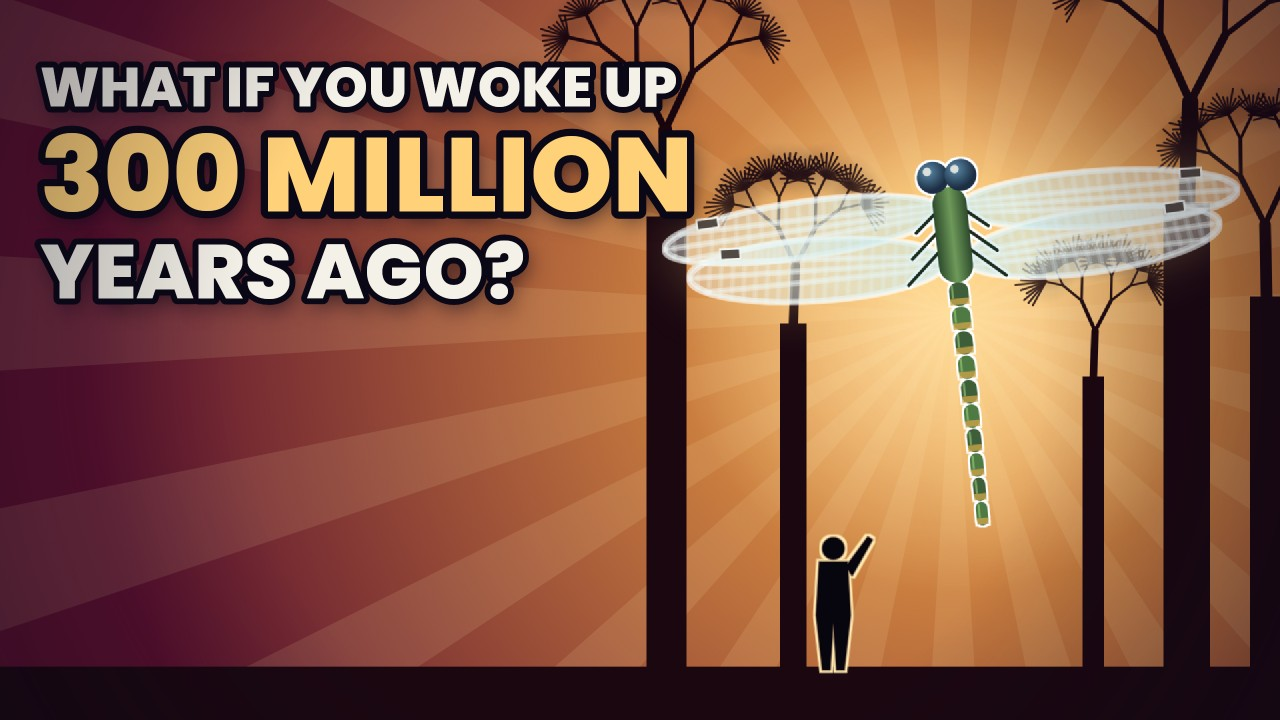
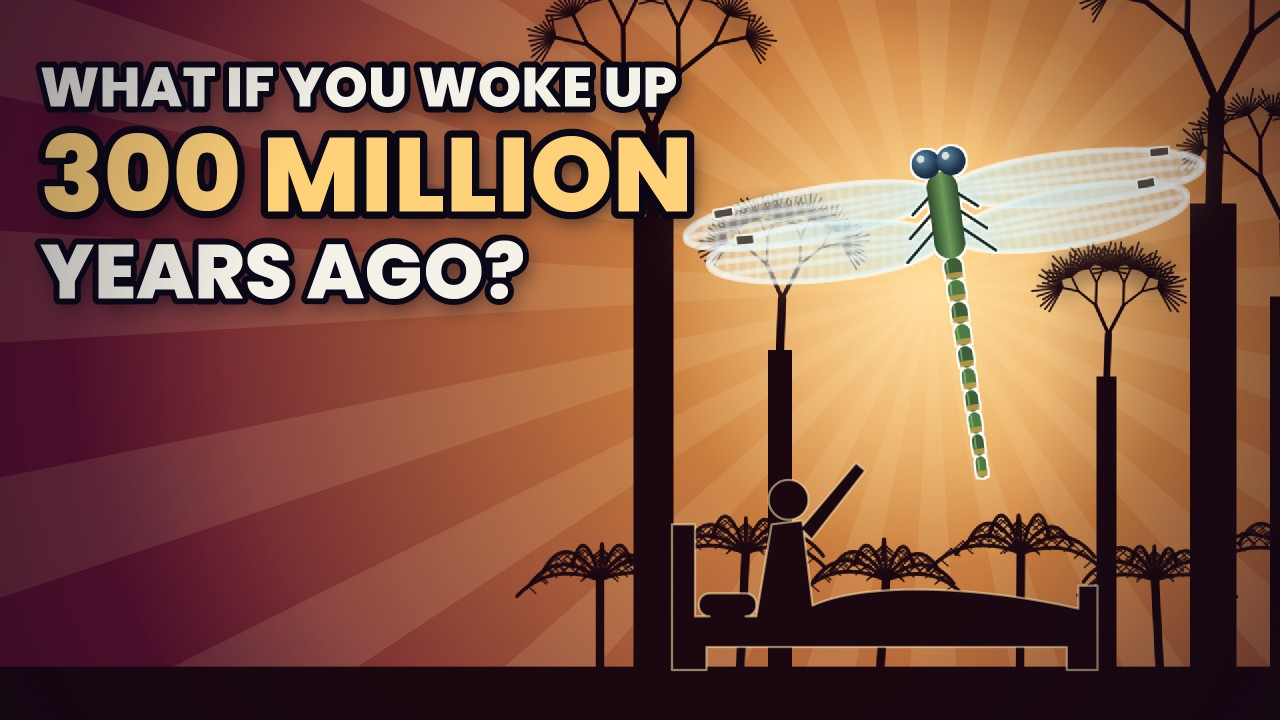
Thumbnail shows the wake-up: person sitting up in bed under the giant dragonfly
Claude-Session: https://claude.ai/code/session_01WCp4uQYTUmYEbUCUwohxpo

diff --git a/runs/woke-up-300-million-years-ago/video/thumbs3.py b/runs/woke-up-300-million-years-ago/video/thumbs3.py
@@ -113,3 +113,42 @@ def thumb_one(c):
     sticker(c, lambda cc: T2.person(cc, 1250, 1005, 200, "stand", "#1A0710"), "#FFE8B0", 4)
     T2.title_block(c)
     vignette(c, W, H, 0.4)
+
+
+def bed_wakeup(c, x, base, s, color="#1A0710", rim="#FFE8B0"):
+    """Silhouette: a bed, and a faceless person sitting up in it with one arm raised (just woke up)."""
+    c.save(); c.translate(x, base); c.scale(s, s)
+    p = skia.Path()
+    p.addRect(skia.Rect(-260, -70, 260, -30))                     # mattress
+    p.addRect(skia.Rect(-280, -190, -250, 0)); p.addRect(skia.Rect(250, -110, 275, 0))   # head/foot boards
+    p.addRect(skia.Rect(-250, -30, -235, 0)); p.addRect(skia.Rect(235, -30, 250, 0))
+    blanket = skia.Path(); blanket.moveTo(-120, -70); blanket.cubicTo(-60, -120, 120, -110, 250, -80); blanket.lineTo(250, -60); blanket.lineTo(-120, -60); blanket.close()
+    p = skia.Op(p, blanket, skia.PathOp.kUnion_PathOp)
+    torso = skia.Path(); torso.moveTo(-170, -70); torso.lineTo(-150, -190); torso.lineTo(-110, -195); torso.lineTo(-95, -70); torso.close()
+    p = skia.Op(p, torso, skia.PathOp.kUnion_PathOp)
+    head = skia.Path(); head.addCircle(-128, -222, 26); p = skia.Op(p, head, skia.PathOp.kUnion_PathOp)
+    arm = skia.Path(); arm.moveTo(-112, -185); arm.lineTo(-40, -270); arm.lineTo(-28, -260); arm.lineTo(-98, -170); arm.close()
+    p = skia.Op(p, arm, skia.PathOp.kUnion_PathOp)
+    pillow = skia.Path(); pillow.addRRect(skia.RRect.MakeRectXY(skia.Rect(-245, -100, -170, -70), 14, 14)); p = skia.Op(p, pillow, skia.PathOp.kUnion_PathOp)
+    c.drawPath(p, paint(color))
+    c.drawPath(p, paint(rim, 0.55, stroke=3))
+    c.restore()
+
+
+def thumb_wakeup(c):
+    """You just woke up in bed 300 million years ago: giant dragonfly over the bed, forest silhouettes, sunset burst."""
+    radial_bg(c, 1400, 430, "#FFB347", "#5A0F2E", 1300)
+    burst(c, 1400, 430, "#FFE8B0", 24, 0.12)
+    glow(c, 1400, 430, 420, "#FFF1C8", 0.75)
+    S = skia.Surface(W, H); cc = S.getCanvas(); cc.clear(skia.Color(0, 0, 0, 0))
+    for i, (x, h, w) in enumerate([(980, 760, 60), (1170, 560, 36), (1820, 780, 70), (1660, 520, 30), (1930, 640, 50)]):
+        lycopsid(cc, x, H + 5, h, w, T0, i + 30)
+    for i in range(6):
+        tree_fern(cc, 900 + i * 210, 1010, 140 + 40 * (i % 2), T0, i, 0.8)
+    p = skia.Paint(); p.setColorFilter(skia.ColorFilters.Blend(col("#1A0710"), skia.BlendMode.kSrcIn))
+    c.drawImage(S.makeImageSnapshot(), 0, 0, skia.SamplingOptions(), p)
+    c.drawRect(skia.Rect(0, 1000, W, H), paint("#1A0710"))
+    bed_wakeup(c, 1330, 1005, 1.15)
+    sticker(c, lambda cc: dragonfly(cc, 1420, 330, 1.45, 0.37, ang=-8), "white", 3, "gold")
+    T2.title_block(c)
+    vignette(c, W, H, 0.4)
